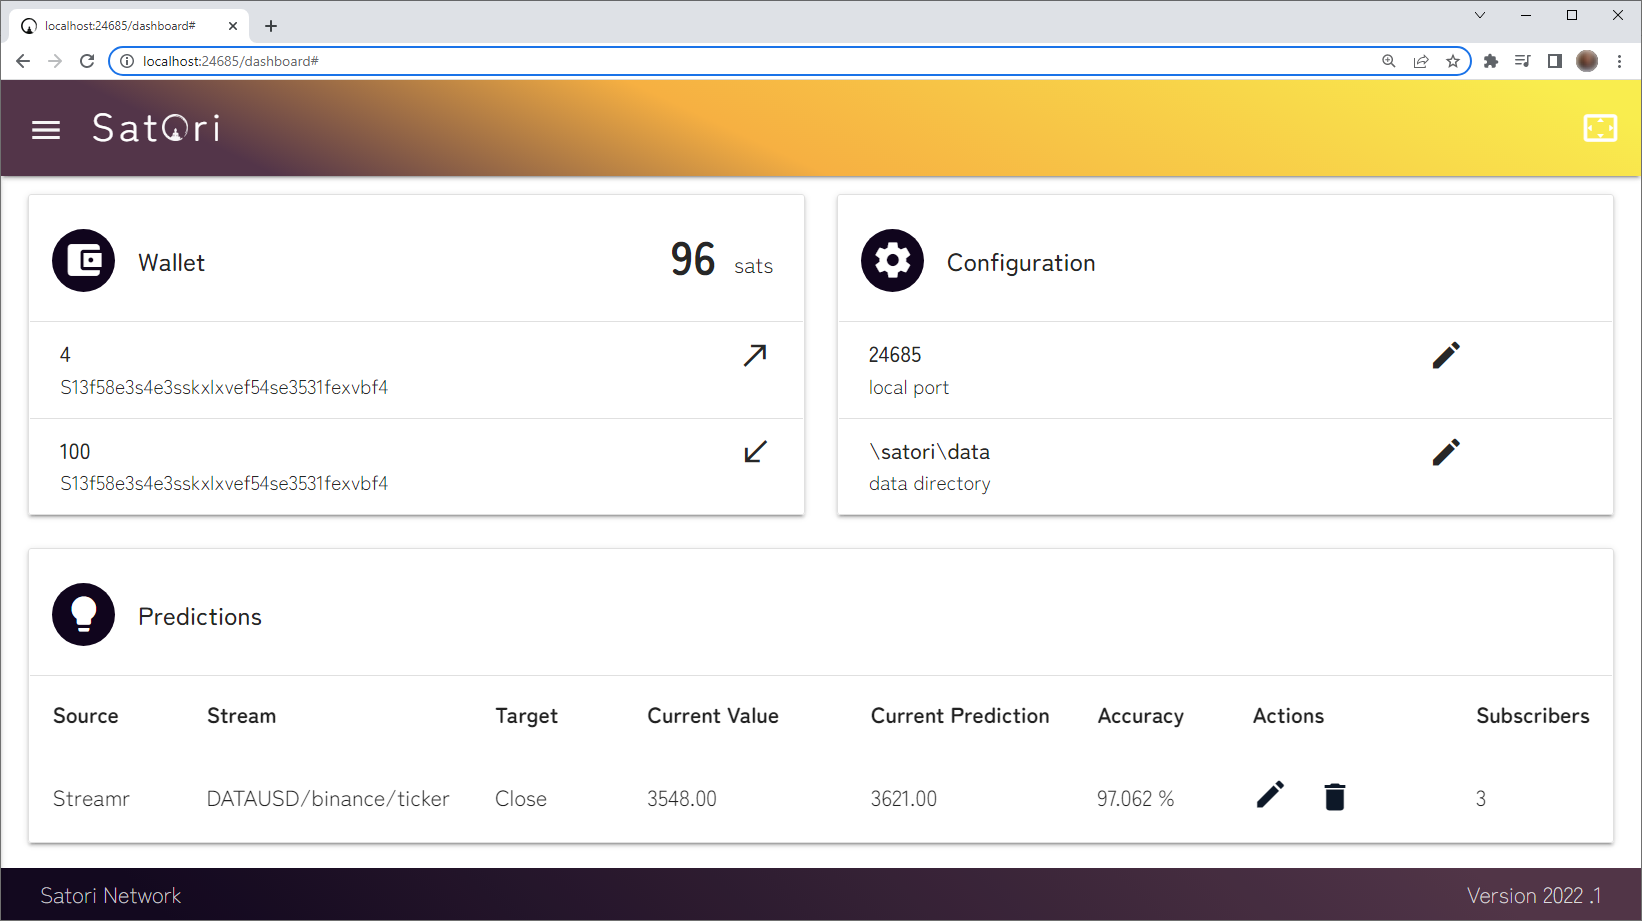
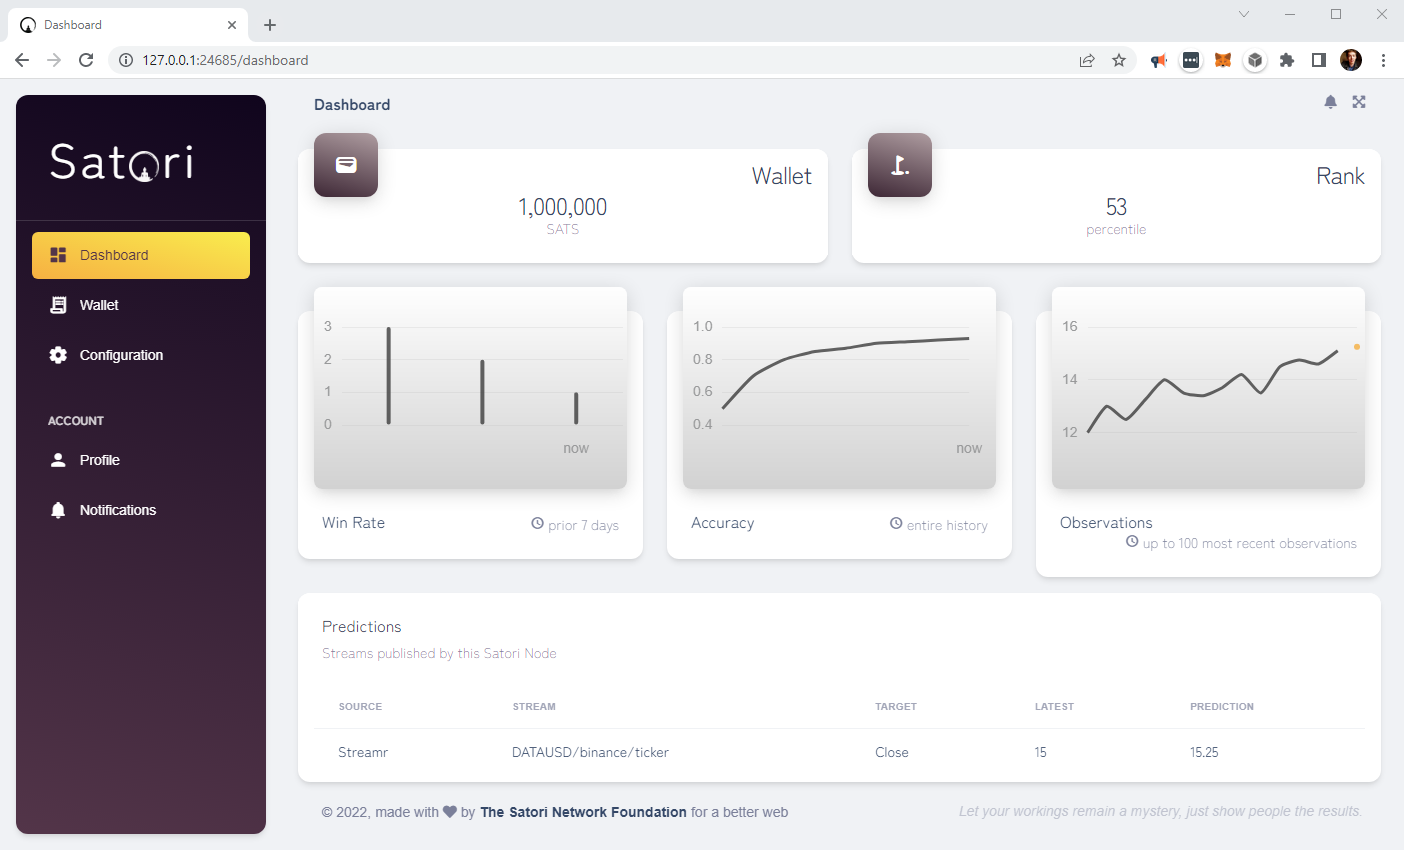
updated node ui on website

diff --git a/docs/index.html b/docs/index.html
@@ -267,7 +267,7 @@
   <!--<button class="textFontButton">Download</button>-->
     <button class="textFontButton"><a href="https://github.com/lastmeta/Satori">Get Involved</a></button>
   <br />
-  <img src="./assets/site/nodeui.png" style='margin-top:50px;' height=921 width=1642 title='Node software' class="resize-on-med-and-down">
+  <img src="./assets/site/nodeui.png" style='margin-top:50px;' height=850 width=1404 title='Node software' class="resize-on-med-and-down">
     <center><i><p class="textFont">Satori node software user interface</p></i></center>
   </div>
 </template>
